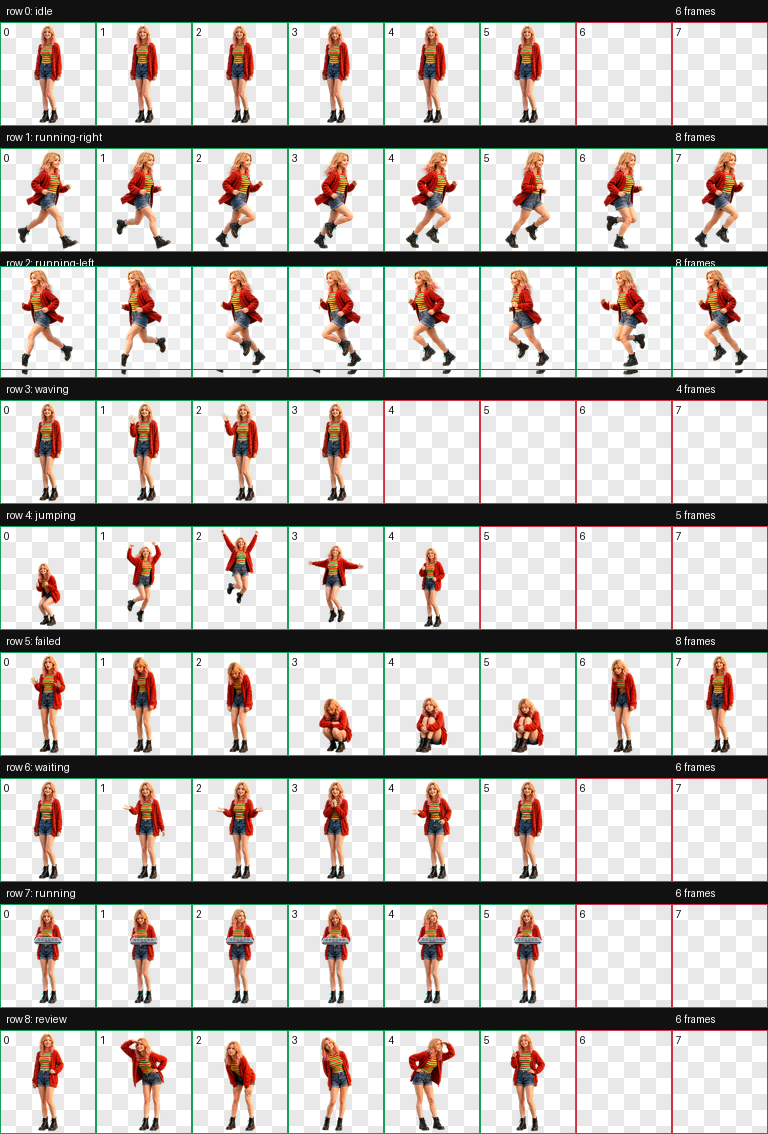
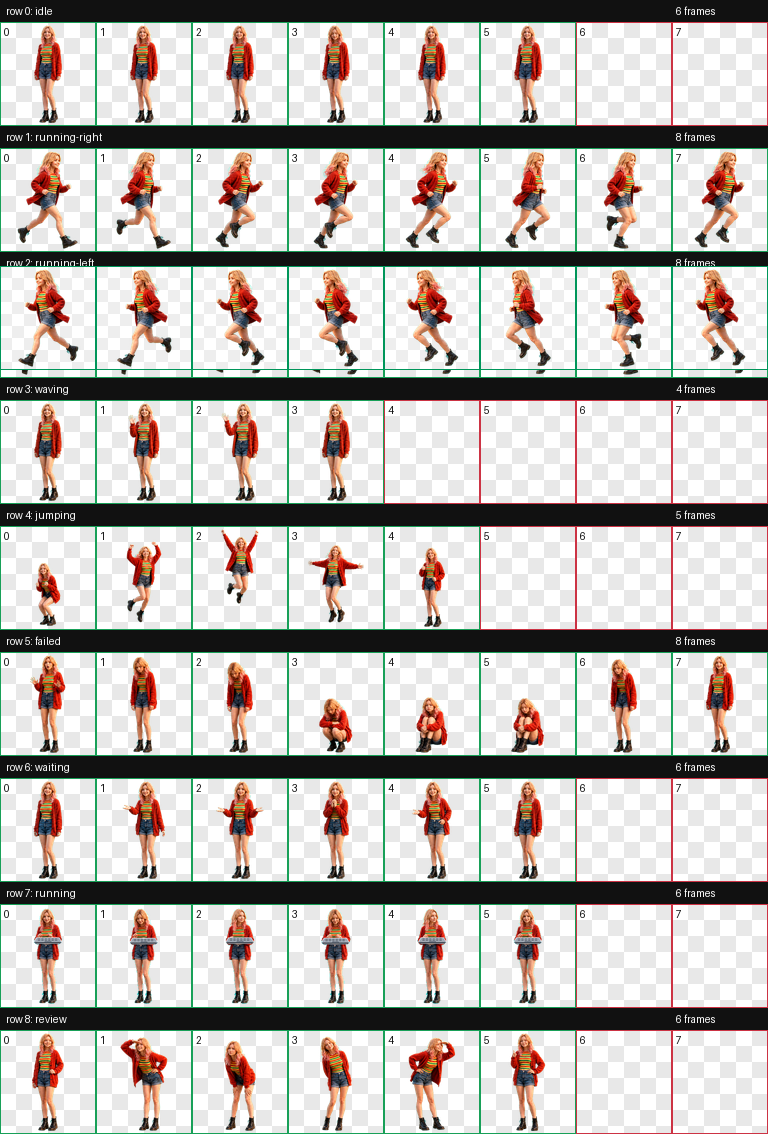
Preserve complete left-running frames

diff --git a/source/tools/clean_detached_artifacts.py b/source/tools/clean_detached_artifacts.py
@@ -1,103 +1,48 @@
-"""Remove detached alpha components from selected Codex pet animation rows."""
+"""Repair a directional Codex pet row by mirroring its complete counterpart."""
 
 from __future__ import annotations
 
 import argparse
-from collections import deque
 from pathlib import Path
 
-from PIL import Image
+from PIL import Image, ImageDraw, ImageOps
 
 
 COLUMNS = 8
 ROWS = 9
 
 
-def find_components(alpha: Image.Image) -> list[list[int]]:
-    width, height = alpha.size
-    pixels = alpha.load()
-    visited = bytearray(width * height)
-    components: list[list[int]] = []
-
-    for start in range(width * height):
-        if visited[start] or pixels[start % width, start // width] == 0:
-            continue
-
-        visited[start] = 1
-        queue = deque([start])
-        component: list[int] = []
-        while queue:
-            pixel = queue.popleft()
-            component.append(pixel)
-            x = pixel % width
-            y = pixel // width
-
-            for neighbor in (pixel - 1, pixel + 1, pixel - width, pixel + width):
-                if neighbor < 0 or neighbor >= width * height or visited[neighbor]:
-                    continue
-                neighbor_x = neighbor % width
-                neighbor_y = neighbor // width
-                if abs(neighbor_x - x) + abs(neighbor_y - y) != 1:
-                    continue
-                if pixels[neighbor_x, neighbor_y] == 0:
-                    continue
-
-                visited[neighbor] = 1
-                queue.append(neighbor)
-
-        components.append(component)
-
-    return components
-
-
-def clean_frame(frame: Image.Image) -> tuple[Image.Image, int, int]:
-    rgba = frame.convert("RGBA")
-    components = find_components(rgba.getchannel("A"))
-    if len(components) <= 1:
-        return rgba, 0, 0
-
-    main_component = max(components, key=len)
-    main_pixels = set(main_component)
-    raw = bytearray(rgba.tobytes())
-    removed_pixels = 0
-    for component in components:
-        if component is main_component:
-            continue
-        for pixel in component:
-            if pixel in main_pixels:
-                continue
-            offset = pixel * 4
-            raw[offset : offset + 4] = b"\x00\x00\x00\x00"
-            removed_pixels += 1
-
-    return Image.frombytes("RGBA", rgba.size, bytes(raw)), removed_pixels, len(components) - 1
-
-
-def clean_row(sheet: Image.Image, row: int) -> tuple[Image.Image, list[tuple[int, int, int]]]:
-    if row < 0 or row >= ROWS:
-        raise ValueError(f"Row must be between 0 and {ROWS - 1}; got {row}.")
+def validate_sheet(sheet: Image.Image) -> tuple[int, int]:
     if sheet.width % COLUMNS or sheet.height % ROWS:
         raise ValueError(
             f"Sheet size {sheet.size} is not divisible by {COLUMNS}x{ROWS}."
         )
+    return sheet.width // COLUMNS, sheet.height // ROWS
 
-    frame_width = sheet.width // COLUMNS
-    frame_height = sheet.height // ROWS
+
+def validate_row(row: int) -> None:
+    if row < 0 or row >= ROWS:
+        raise ValueError(f"Row must be between 0 and {ROWS - 1}; got {row}.")
+
+
+def mirror_row(sheet: Image.Image, source_row: int, target_row: int) -> Image.Image:
+    validate_row(source_row)
+    validate_row(target_row)
+    if source_row == target_row:
+        raise ValueError("Source and target rows must be different.")
+
+    frame_width, frame_height = validate_sheet(sheet)
     output = sheet.convert("RGBA")
-    report: list[tuple[int, int, int]] = []
-
     for column in range(COLUMNS):
-        box = (
+        source_box = (
             column * frame_width,
-            row * frame_height,
+            source_row * frame_height,
             (column + 1) * frame_width,
-            (row + 1) * frame_height,
+            (source_row + 1) * frame_height,
         )
-        cleaned, removed_pixels, removed_components = clean_frame(output.crop(box))
-        output.paste(cleaned, box[:2])
-        report.append((column, removed_components, removed_pixels))
-
-    return output, report
+        target_position = (column * frame_width, target_row * frame_height)
+        output.paste(ImageOps.mirror(output.crop(source_box)), target_position)
+    return output
 
 
 def clear_transparent_rgb(image: Image.Image) -> Image.Image:
@@ -109,29 +54,81 @@ def clear_transparent_rgb(image: Image.Image) -> Image.Image:
     return Image.frombytes("RGBA", rgba.size, bytes(raw))
 
 
+def update_contact_sheet(sheet: Image.Image, destination: Path, row: int) -> None:
+    with Image.open(destination) as image:
+        contact = image.convert("RGB")
+
+    frame_width, frame_height = validate_sheet(sheet)
+    preview_width = contact.width // COLUMNS
+    preview_height = frame_height // 2
+    row_height = contact.height // ROWS
+    image_top = row * row_height + (row_height - preview_height - 8)
+
+    for column in range(COLUMNS):
+        tile = Image.new("RGB", (preview_width, preview_height), (238, 238, 238))
+        draw = ImageDraw.Draw(tile)
+        checker_size = 12
+        for y in range(0, preview_height, checker_size):
+            for x in range(0, preview_width, checker_size):
+                if (x // checker_size + y // checker_size) % 2:
+                    draw.rectangle(
+                        (
+                            x,
+                            y,
+                            min(x + checker_size - 1, preview_width - 1),
+                            min(y + checker_size - 1, preview_height - 1),
+                        ),
+                        fill=(255, 255, 255),
+                    )
+
+        frame_box = (
+            column * frame_width,
+            row * frame_height,
+            (column + 1) * frame_width,
+            (row + 1) * frame_height,
+        )
+        frame = sheet.crop(frame_box).resize(
+            (preview_width, preview_height), Image.Resampling.LANCZOS
+        )
+        tile.paste(frame, (0, 0), frame)
+        draw.rectangle(
+            (0, 0, preview_width - 1, preview_height - 1),
+            outline=(0, 150, 90),
+            width=1,
+        )
+        contact.paste(tile, (column * preview_width, image_top))
+
+    contact.save(destination, optimize=True)
+
+
 def main() -> None:
     parser = argparse.ArgumentParser()
     parser.add_argument("--input", type=Path, required=True)
     parser.add_argument("--output", type=Path, required=True)
-    parser.add_argument("--row", type=int, required=True)
+    parser.add_argument("--source-row", type=int, required=True)
+    parser.add_argument("--target-row", type=int, required=True)
+    parser.add_argument("--contact-sheet", type=Path)
     args = parser.parse_args()
 
     with Image.open(args.input) as image:
-        cleaned, report = clean_row(image.convert("RGBA"), args.row)
-    cleaned = clear_transparent_rgb(cleaned)
+        repaired = mirror_row(
+            image.convert("RGBA"),
+            source_row=args.source_row,
+            target_row=args.target_row,
+        )
+    repaired = clear_transparent_rgb(repaired)
 
     destination = args.output.resolve()
     destination.parent.mkdir(parents=True, exist_ok=True)
     temporary = destination.with_name(f"{destination.stem}.tmp{destination.suffix}")
-    cleaned.save(temporary, "WEBP", lossless=True, method=6, exact=True)
+    repaired.save(temporary, "WEBP", lossless=True, method=6, exact=True)
     temporary.replace(destination)
-
-    for column, component_count, pixel_count in report:
-        if pixel_count:
-            print(
-                f"row={args.row} column={column}: removed "
-                f"{component_count} components / {pixel_count} pixels"
-            )
+    if args.contact_sheet:
+        update_contact_sheet(repaired, args.contact_sheet, args.target_row)
+    print(
+        f"Mirrored row {args.source_row} into row {args.target_row} "
+        f"across {COLUMNS} complete frames."
+    )
 
 
 if __name__ == "__main__":
